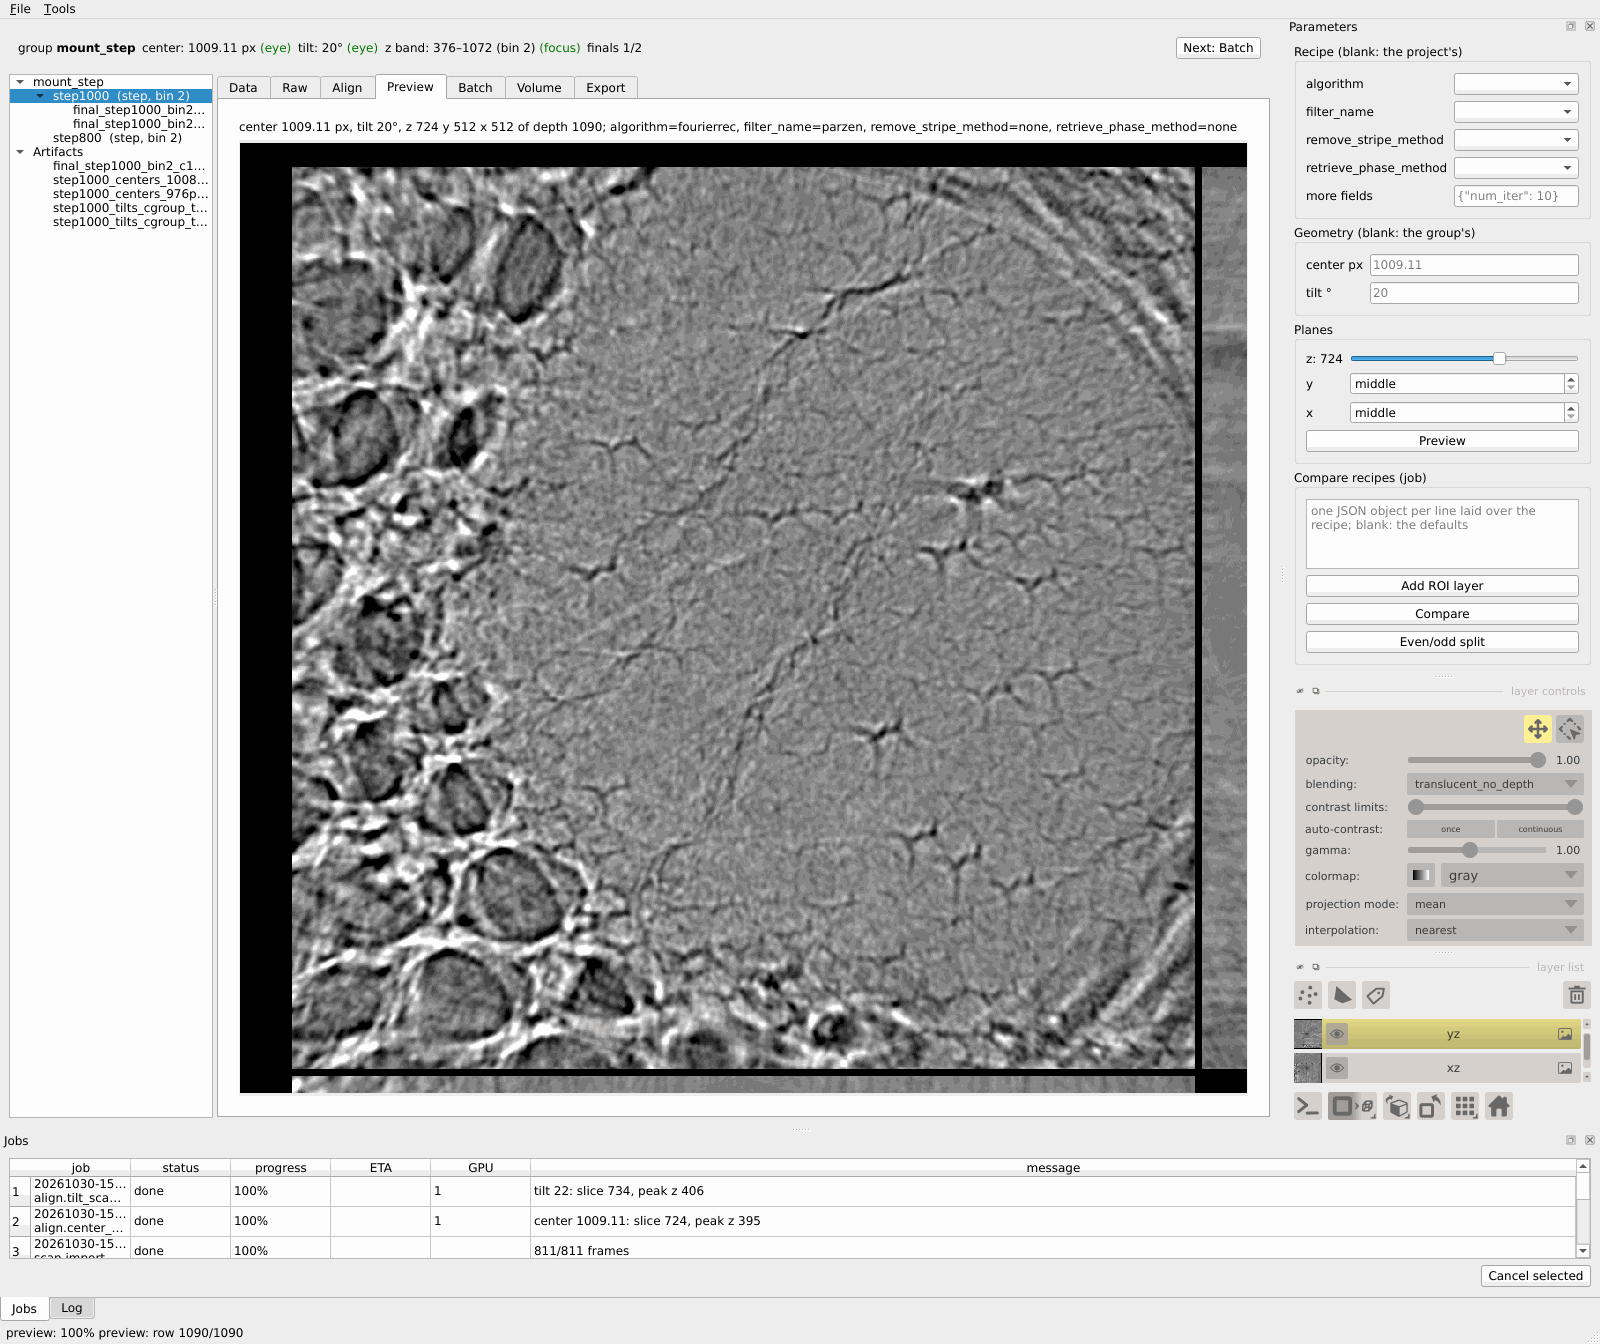
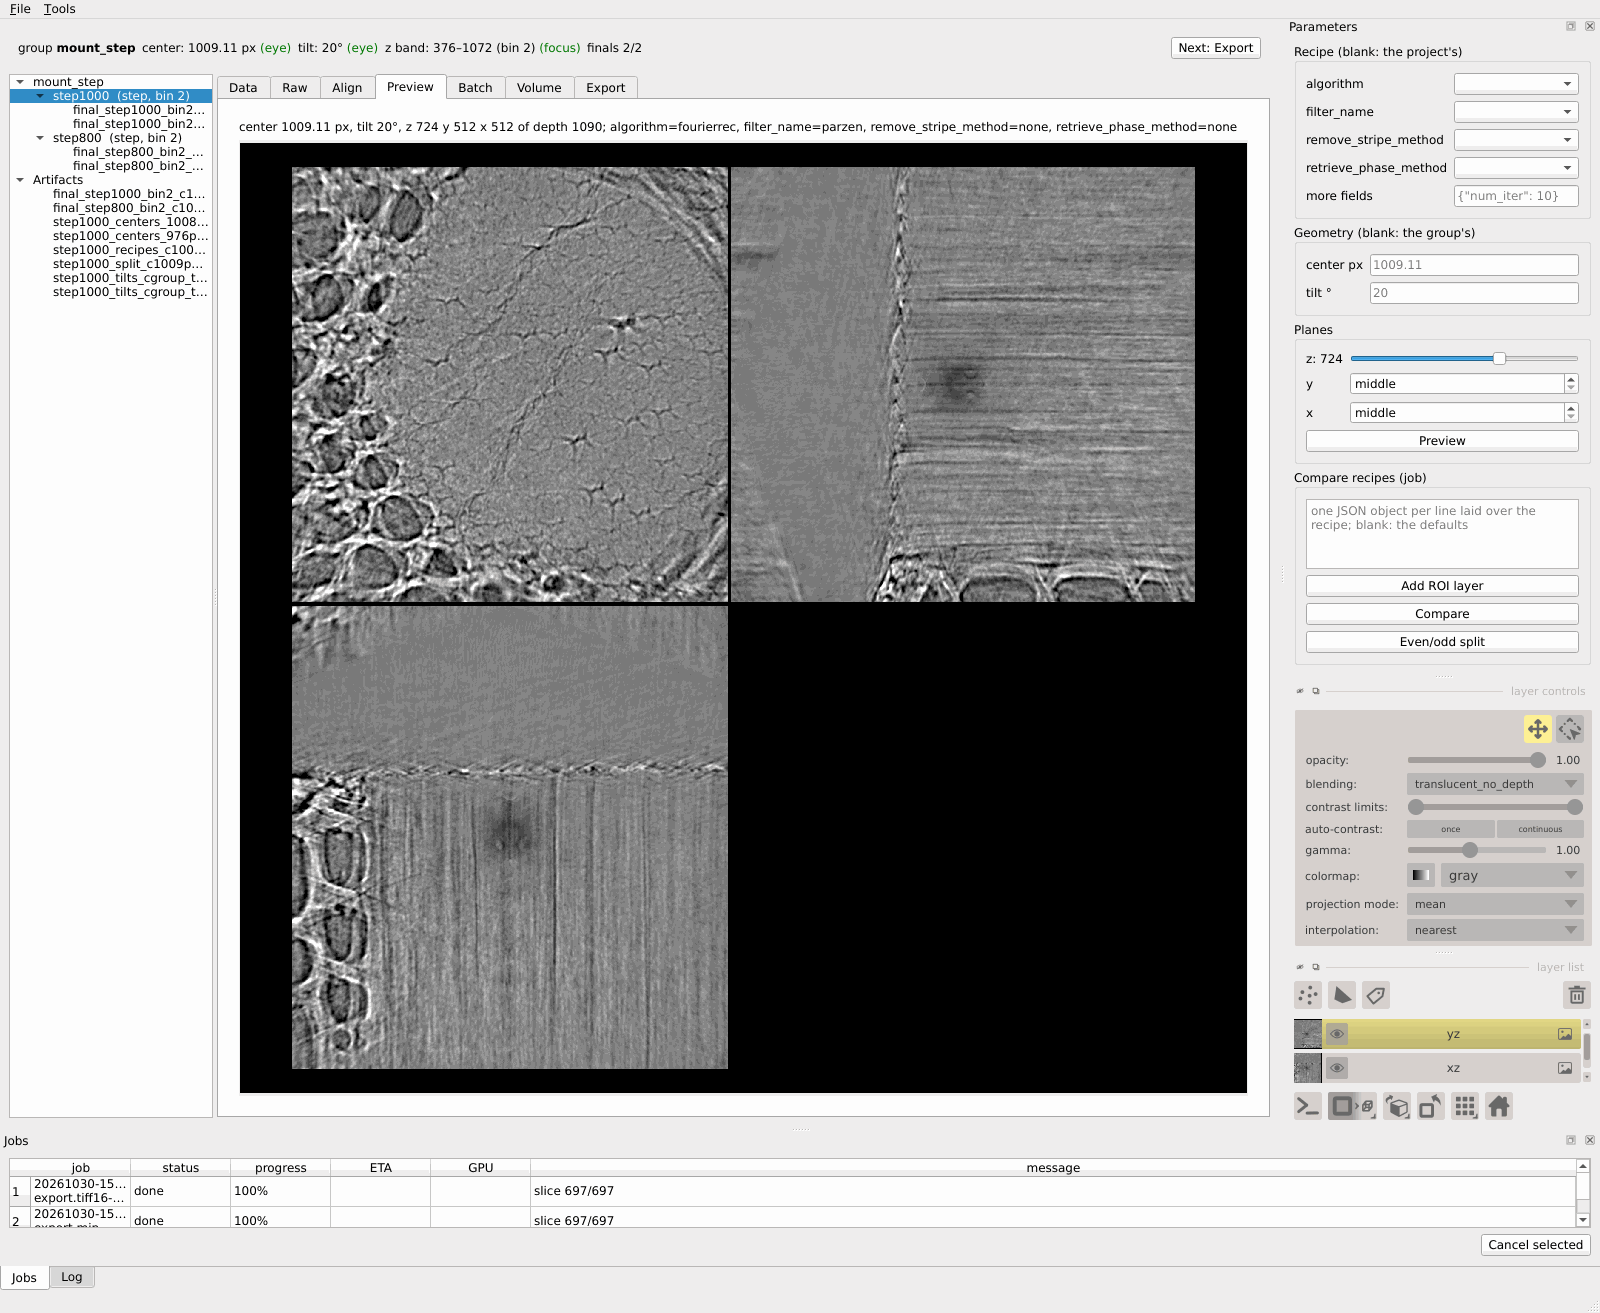
gui: keep a fit until the camera is set by hand (_Canvas.keep)
A draw ended the fit, and Qt draws the canvas as the layer controls
switch to the first layer inserted: Preview's planes stayed fit to the
slice alone. The mouse, a touch or Viewer.look now end it.

diff --git a/python/lamino_pal/gui/viewer.py b/python/lamino_pal/gui/viewer.py
@@ -38,8 +38,9 @@ class _Canvas(VispyCanvas):
     A fit (fit_to_view: napari's on the first layer and on ndisplay, or
     reset_view) is to the layers, their grid and the size the canvas then
     had, napari's default 800×600 before it was made, so it is made again as
-    the canvas is resized or its scene rebuilt until it is next drawn shown.
-    A camera set by hand is kept."""
+    the canvas is resized or its scene rebuilt until the camera is set by
+    hand: by the mouse or a touch on the canvas, or by keep. Not until it is
+    drawn: Qt may draw it between the layers added in one pass."""
 
     _unfit = False
 
@@ -58,11 +59,14 @@ class _Canvas(VispyCanvas):
         self._closed = False
         self._unfit = True
         self.viewer.events.reset_view.connect(self._fitted)
+        events = self._scene_canvas.events
+        for e in (events.mouse_press, events.mouse_wheel, events.touch):
+            e.connect(self.keep)
 
     def _fitted(self, event=None) -> None:
         self._unfit = True
 
-    def keep(self) -> None:
+    def keep(self, event=None) -> None:
         """The camera as now set is no fit to redo."""
         self._unfit = False
 
@@ -139,10 +143,6 @@ class _Canvas(VispyCanvas):
         if self._owed.isActive():
             self._rebuild()
         super().on_draw(event)
-        # Painted, after the rebuild's fit: napari calls on_draw(None) itself
-        # as layers change.
-        if event is not None and self.native.isVisible():
-            self._unfit = False
 
 
 class Viewer(qt.QWidget):

diff --git a/tests/gl_render.py b/tests/gl_render.py
@@ -110,6 +110,38 @@ def test_layers_added_to_a_grid_after_others_were_drawn_are_fit_to_it(app, paint
         v.close()
 
 
+@pytest.mark.parametrize("by_hand", [False, True])
+def test_layers_added_after_a_draw_in_the_same_pass_are_fit_to_unless_zoomed_by_hand(app, by_hand):
+    v = Viewer("t")
+    v.resize(900, 600)
+    v.setAttribute(qt.Qt.WA_DontShowOnScreen)
+    v.show()
+    pump(app, 0.2)
+    canvas = v.qt_viewer.canvas
+    cam = v.model.camera
+    # Preview's planes: the first fit alone, drawn as the window lays out
+    # the controls it brings, then the others.
+    v.model.add_image(np.ones((64, 64), "f4"), name="slice")
+    canvas.native.repaint()
+    if by_hand:
+        canvas._scene_canvas.events.mouse_wheel(pos=(450, 300), delta=(0, 1))
+        # Into the model as drawn.
+        canvas.native.repaint()
+    shown = cam.zoom, cam.center
+    v.model.add_image(np.ones((64, 64), "f4"), name="xz", translate=(72, 0))
+    pump(app, 0.2)
+    try:
+        if by_hand:
+            assert (cam.zoom, cam.center) == shown
+        else:
+            shown = cam.zoom, cam.center
+            v.model.reset_view()
+            assert (cam.zoom, cam.center) == shown
+    finally:
+        v.close_canvas()
+        v.close()
+
+
 def fill(img: np.ndarray) -> tuple[float, float]:
     """The height and width of what `img` shows on its black ground, as
     fractions of its own."""
